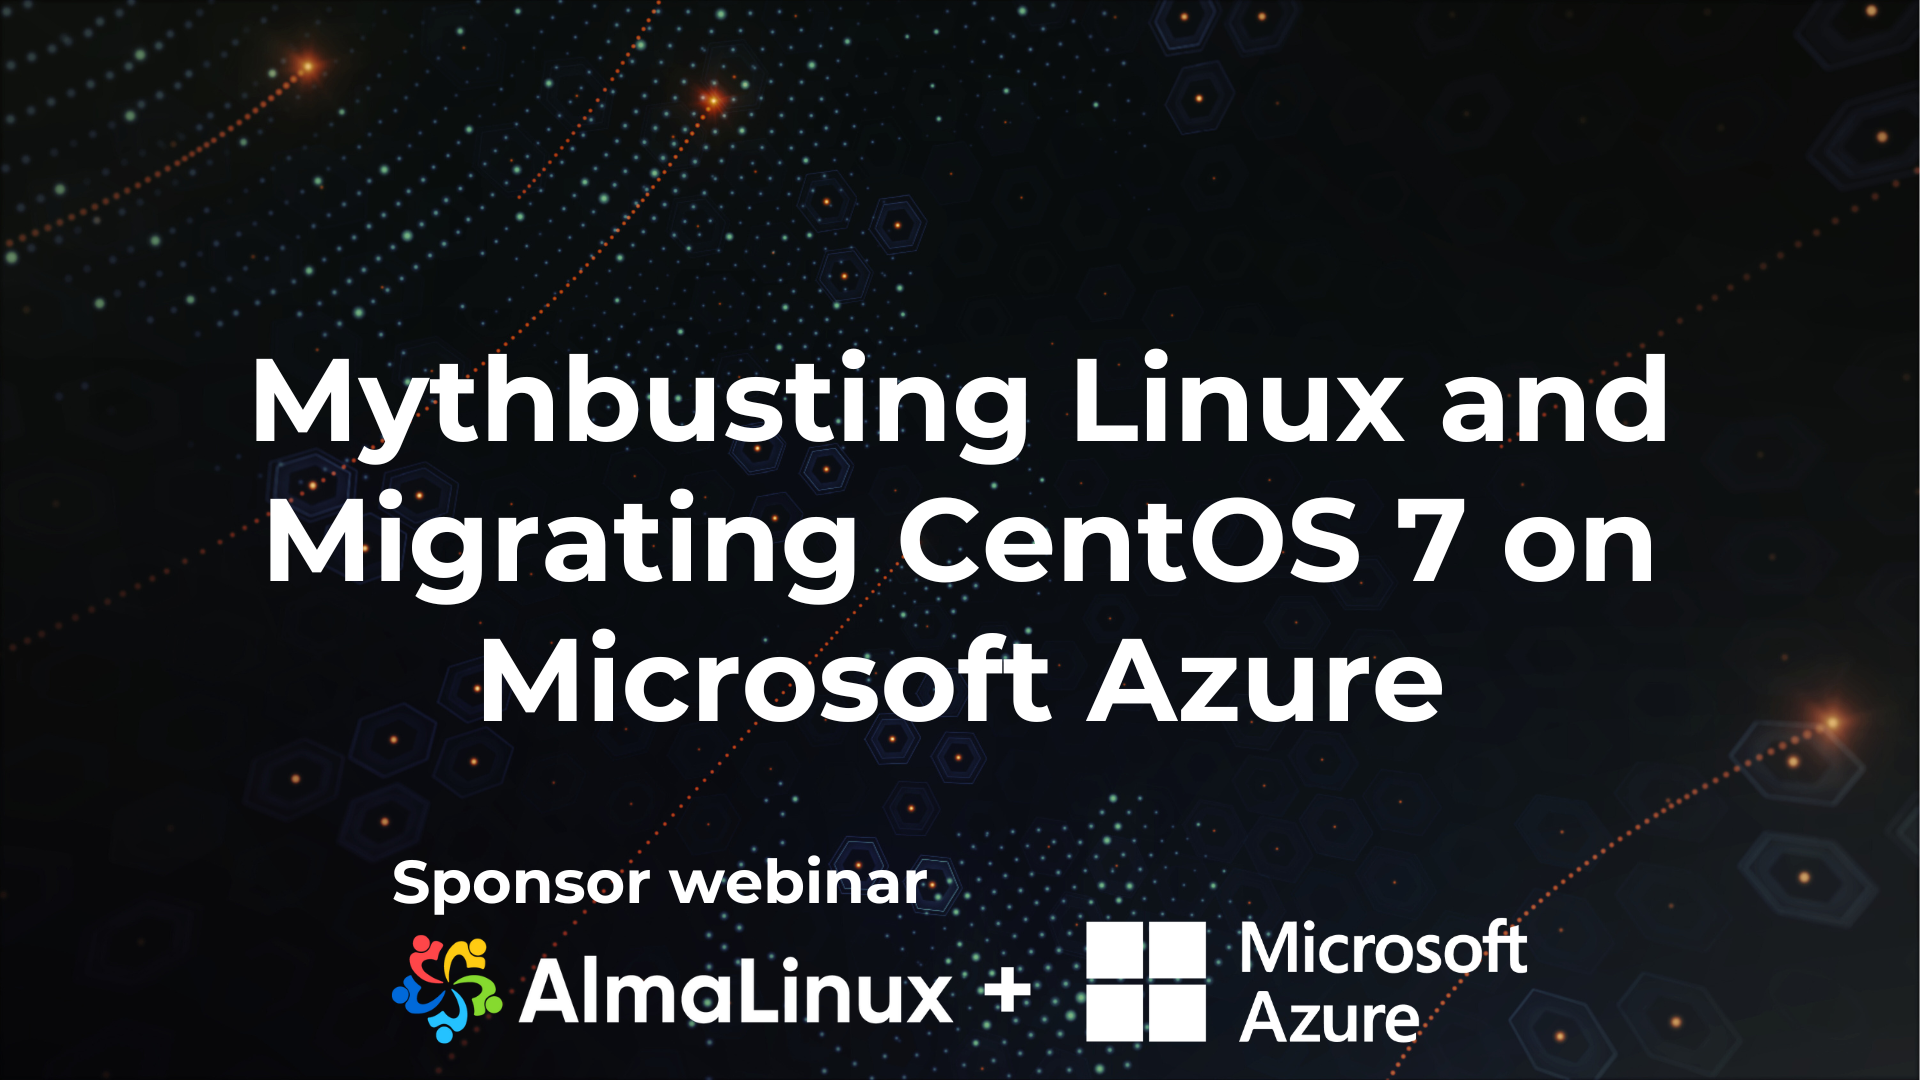
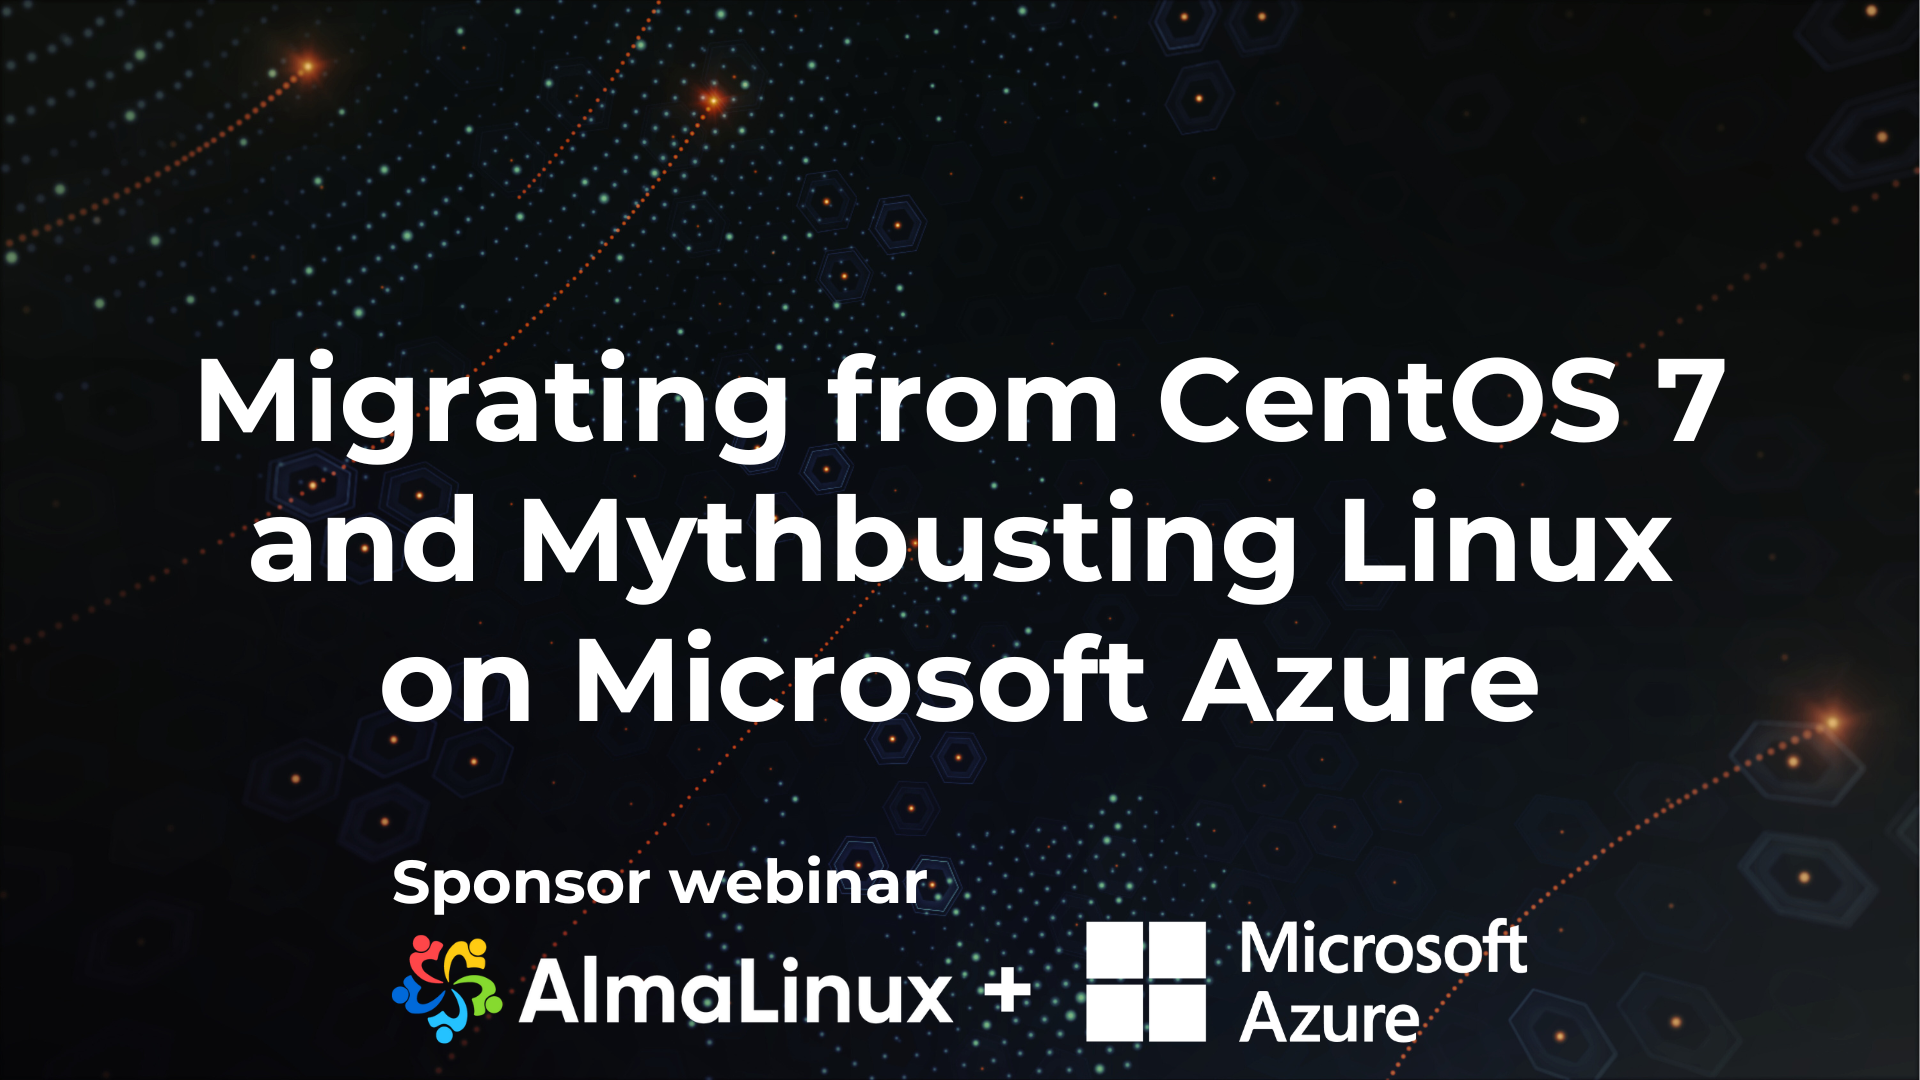
Making title less confusing

Changed region(s): [[0.125, 0.4583, 0.875, 0.6722], [0.0938, 0.3056, 0.9062, 0.4278]]

diff --git a/content/blog/2024-05-23-mythbusting-linux-on-azure.md b/content/blog/2024-05-23-mythbusting-linux-on-azure.md
@@ -1,5 +1,5 @@
 ---
-title: "Sponsor meetup: Mythbusting Linux and Migrating CentOS 7 on Microsoft Azure"
+title: "Sponsor meetup: Migrating from CentOS 7 and Mythbusting Linux on Microsoft Azure"
 type: blog
 author: 
  name: "benny Vasquez"
@@ -9,7 +9,7 @@ date: '2024-05-23'
 images:
   - /blog-images/2024/azurewebinar.png
 post:
-    title: "Sponsor meetup: Mythbusting Linux and Migrating CentOS 7 on Microsoft Azure"
+    title: "Sponsor meetup: Migrating from CentOS 7 and Mythbusting Linux on Microsoft Azure"
     image: /blog-images/2024/azurewebinar.png
 ---
 
